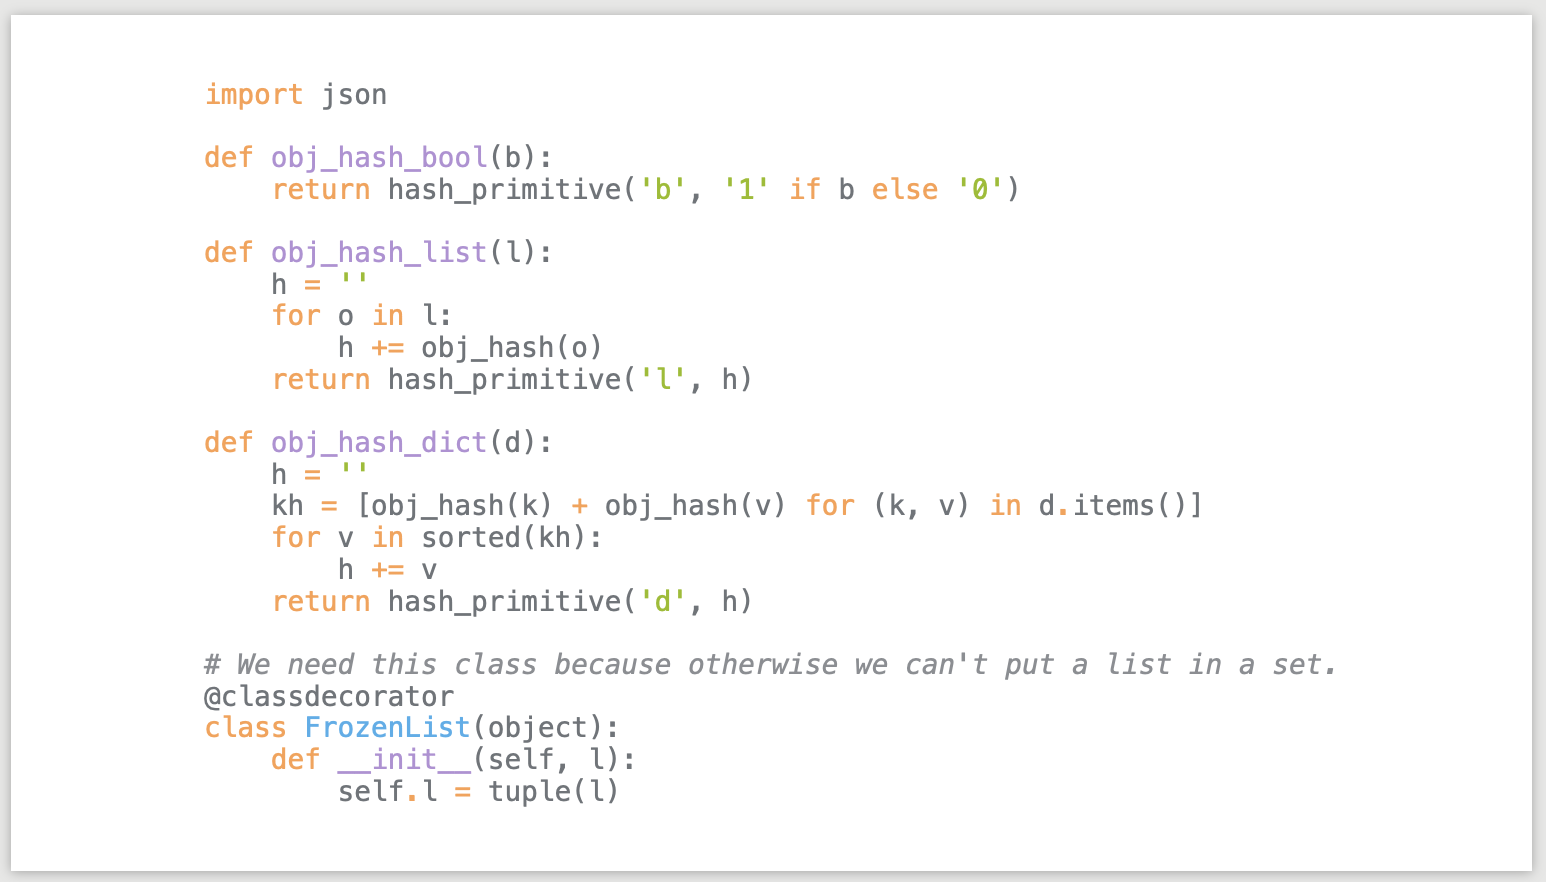
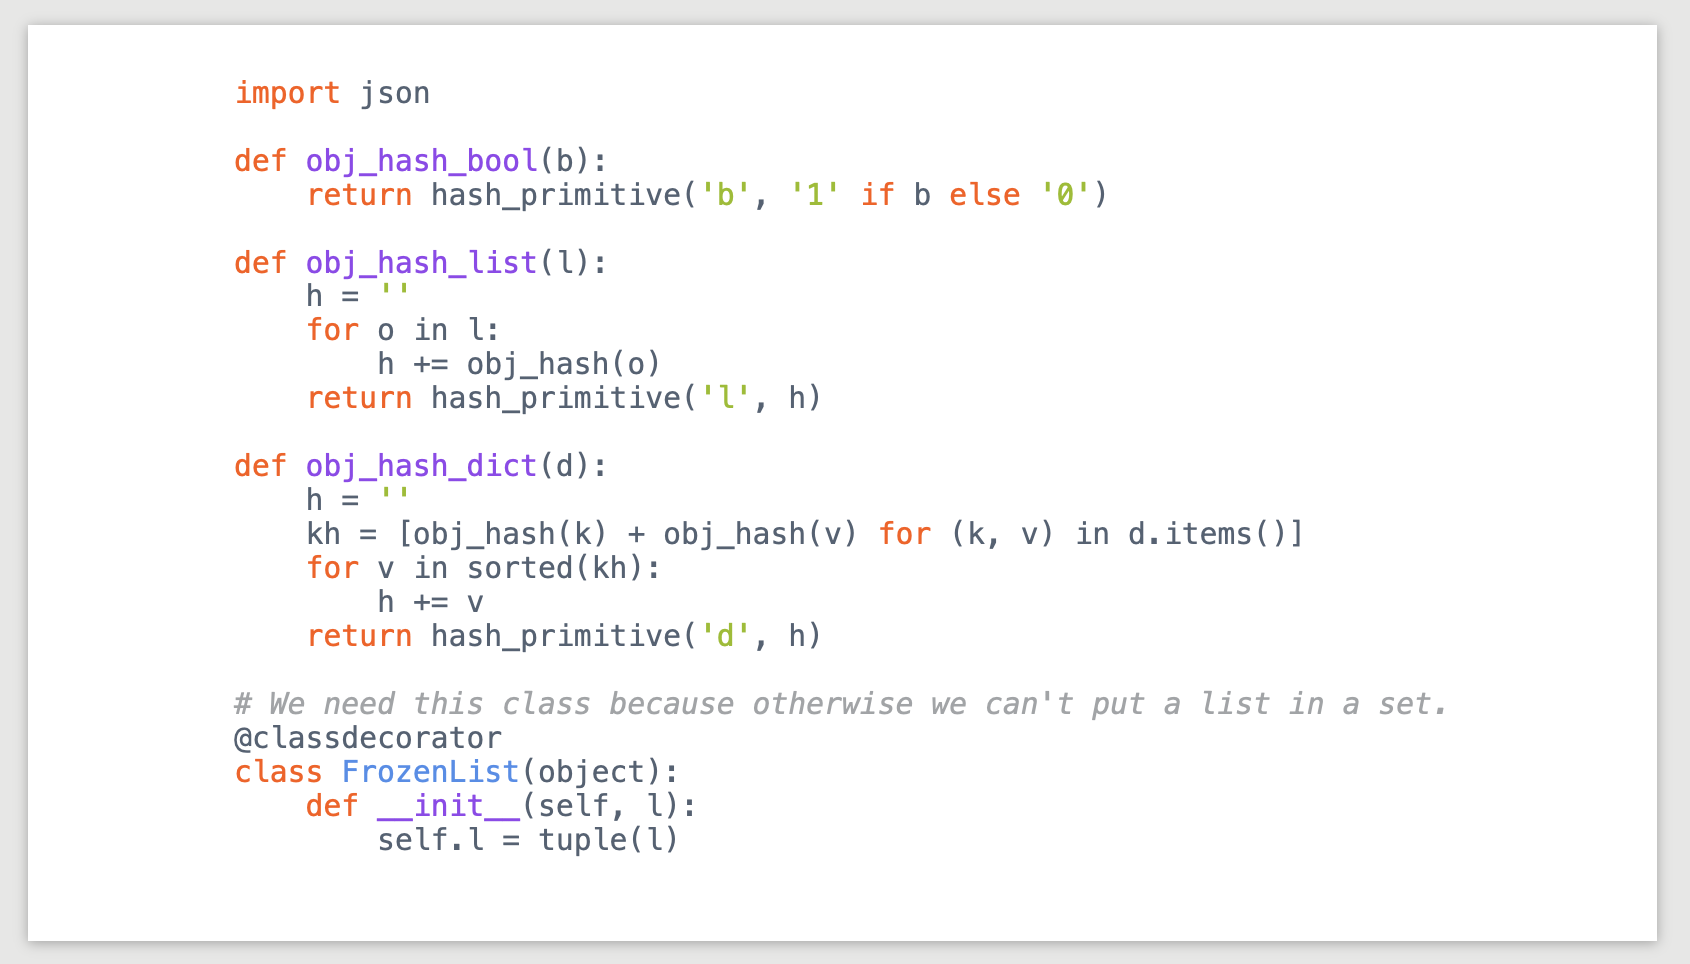
Fix light colors

diff --git a/pustota_pygments/__init__.py b/pustota_pygments/__init__.py
@@ -8,6 +8,8 @@ from pygments.style import Style
 class PustotaStyle(Style):
     """Regular style for dark themes."""
 
+    name = 'pustota'
+
     styles = {  # noqa: RUF012
         # Group 1: comments
         token.Comment: 'italic #626A73',
@@ -31,20 +33,22 @@ class PustotaStyle(Style):
 class PustotaLightStyle(Style):
     """Regular style for light themes."""
 
+    name = 'pustota-light'
+
     styles = {  # noqa: RUF012
         # Group 1: comments
-        token.Comment: 'italic #787B80',
+        token.Comment: 'italic #909396',
         # Group 2: strings / text
         token.Literal.String: '#86B300',
         # Group 3: constants
         token.Literal: '#ED9366',
         # Group 4: keywords and operators
-        token.Keyword: '#FA8D3E',
-        token.Operator: '#FA8D3E',
+        token.Keyword: '#ff4000',
+        # token.Operator: '#ff4000',
         # Group 5: Function definitions
-        token.Name.Function: '#A37ACC',
+        token.Name.Function: '#8025e9',
         # Group 6: Type definitons
-        token.Name.Class: '#399EE6',
+        token.Name.Class: '#3978e6',
         # Everything else:
-        token.Token: '#5C6166',
+        token.Token: '#424f60',
     }

diff --git a/README.md b/README.md
@@ -22,7 +22,7 @@ Dark theme:
 ![pustota](https://raw.githubusercontent.com/pustota-theme/pustota-pygments/master/assets/dark.png)
 
 ```bash
-uvx --with pustota-pygments pygemntize \
+uvx --with pustota-pygments --from pygments pygmentize \
   -f rtf -P style=pustota -O fontface='Menlo' \
   $FILENAME | pbcopy
 ```
@@ -32,7 +32,7 @@ Light theme:
 ![pustota](https://raw.githubusercontent.com/pustota-theme/pustota-pygments/master/assets/light.png)
 
 ```bash
-uvx --with pustota-pygments pygemntize \
+uvx --with pustota-pygments --from pygments pygmentize \
   -f rtf -P style=pustota-light -O fontface='Menlo' \
   $FILENAME | pbcopy
 ```
